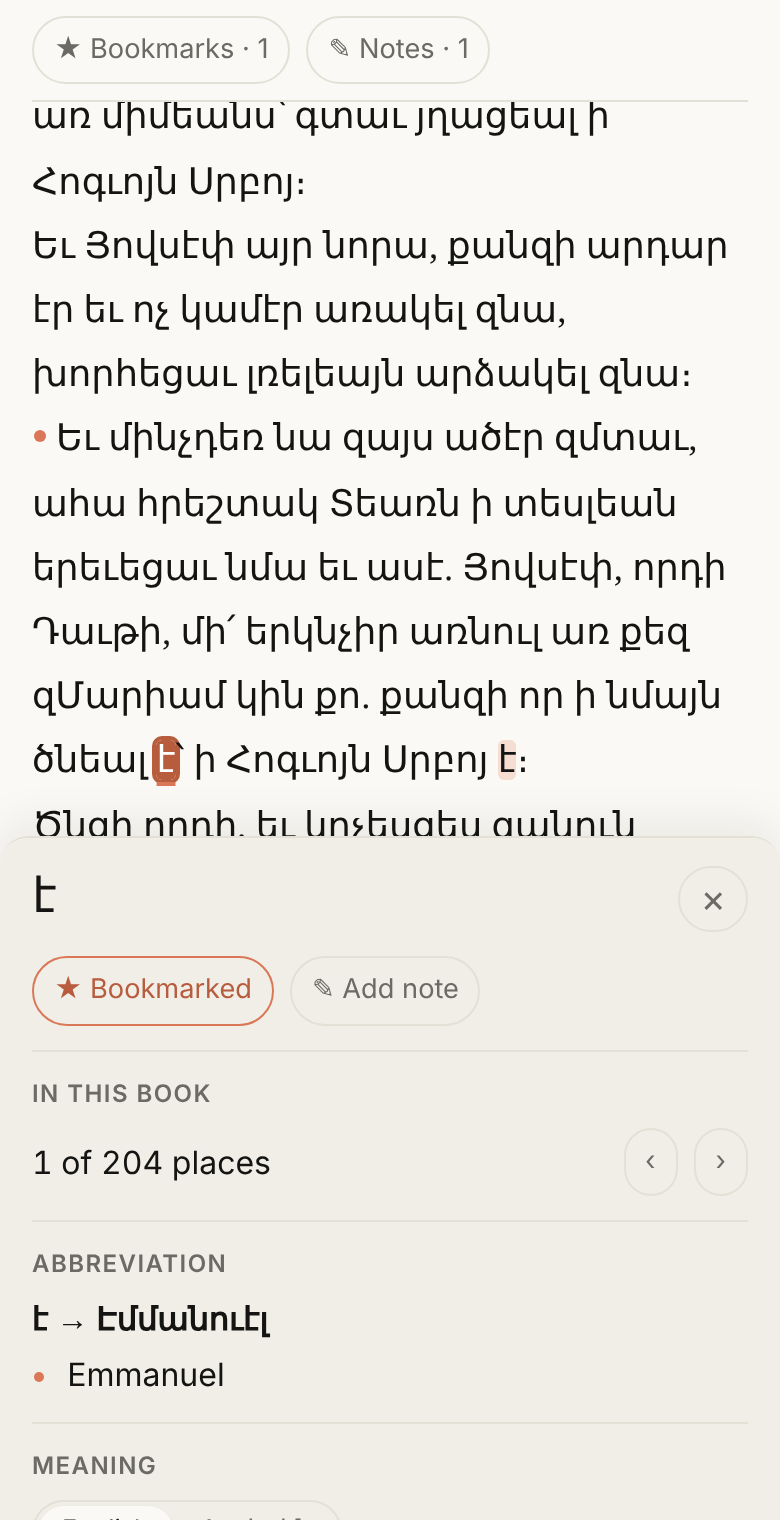
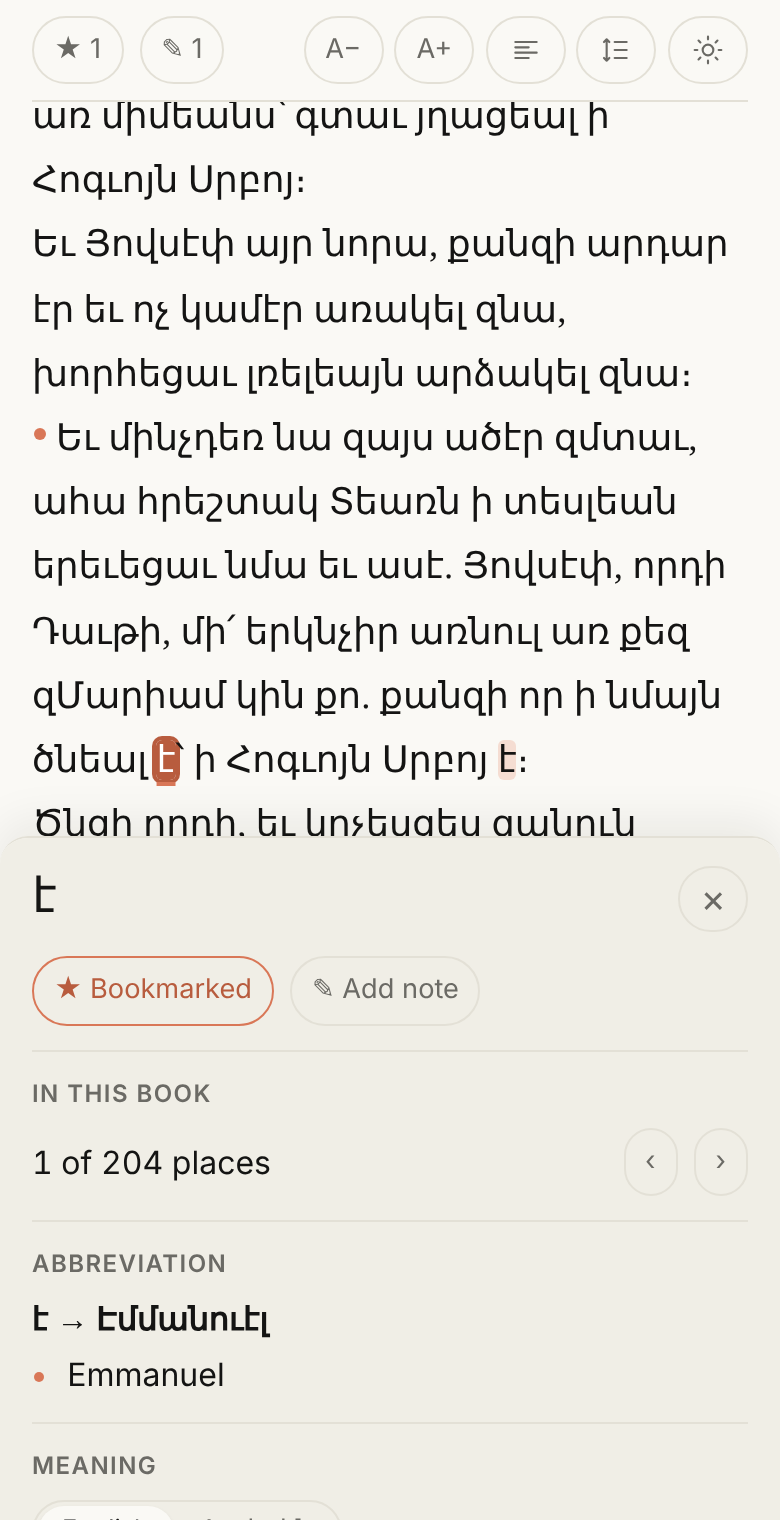
web: theme button in the reading toolbar
While reading, the theme button joins A−, A+ and
the other text tools; elsewhere it stays in the top
bar. README screenshots regenerated.

Claude-Session: https://claude.ai/code/session_01MmoF2qyxoB4D2nBrMMMzFR

diff --git a/web/app.js b/web/app.js
@@ -203,6 +203,7 @@ function crumbs(path, last) {
 // -- theme --
 
 const button = document.getElementById("theme");
+const topBar = button.parentNode;
 
 function theme() {
   const t = document.documentElement.dataset.theme;
@@ -722,7 +723,9 @@ function viewTools() {
         + " of " + LINES.length,
       title: view.line === LINES.length - 1
         ? "Widest lines (click for normal)"
-        : "Line spacing (click for more)" }));
+        : "Line spacing (click for more)" }),
+  // the theme button joins the row while reading
+  button);
 }
 
 function fail(e) {
@@ -1277,6 +1280,8 @@ async function route() {
   R.par = null;
   document.body.classList.remove("reading",
     "parallel");
+  // back to the top bar from the reading tools
+  if (button.parentNode !== topBar) topBar.append(button);
   try {
     if (hash.startsWith("read/")) {
       await book(decodeURIComponent(hash.slice(5)));
